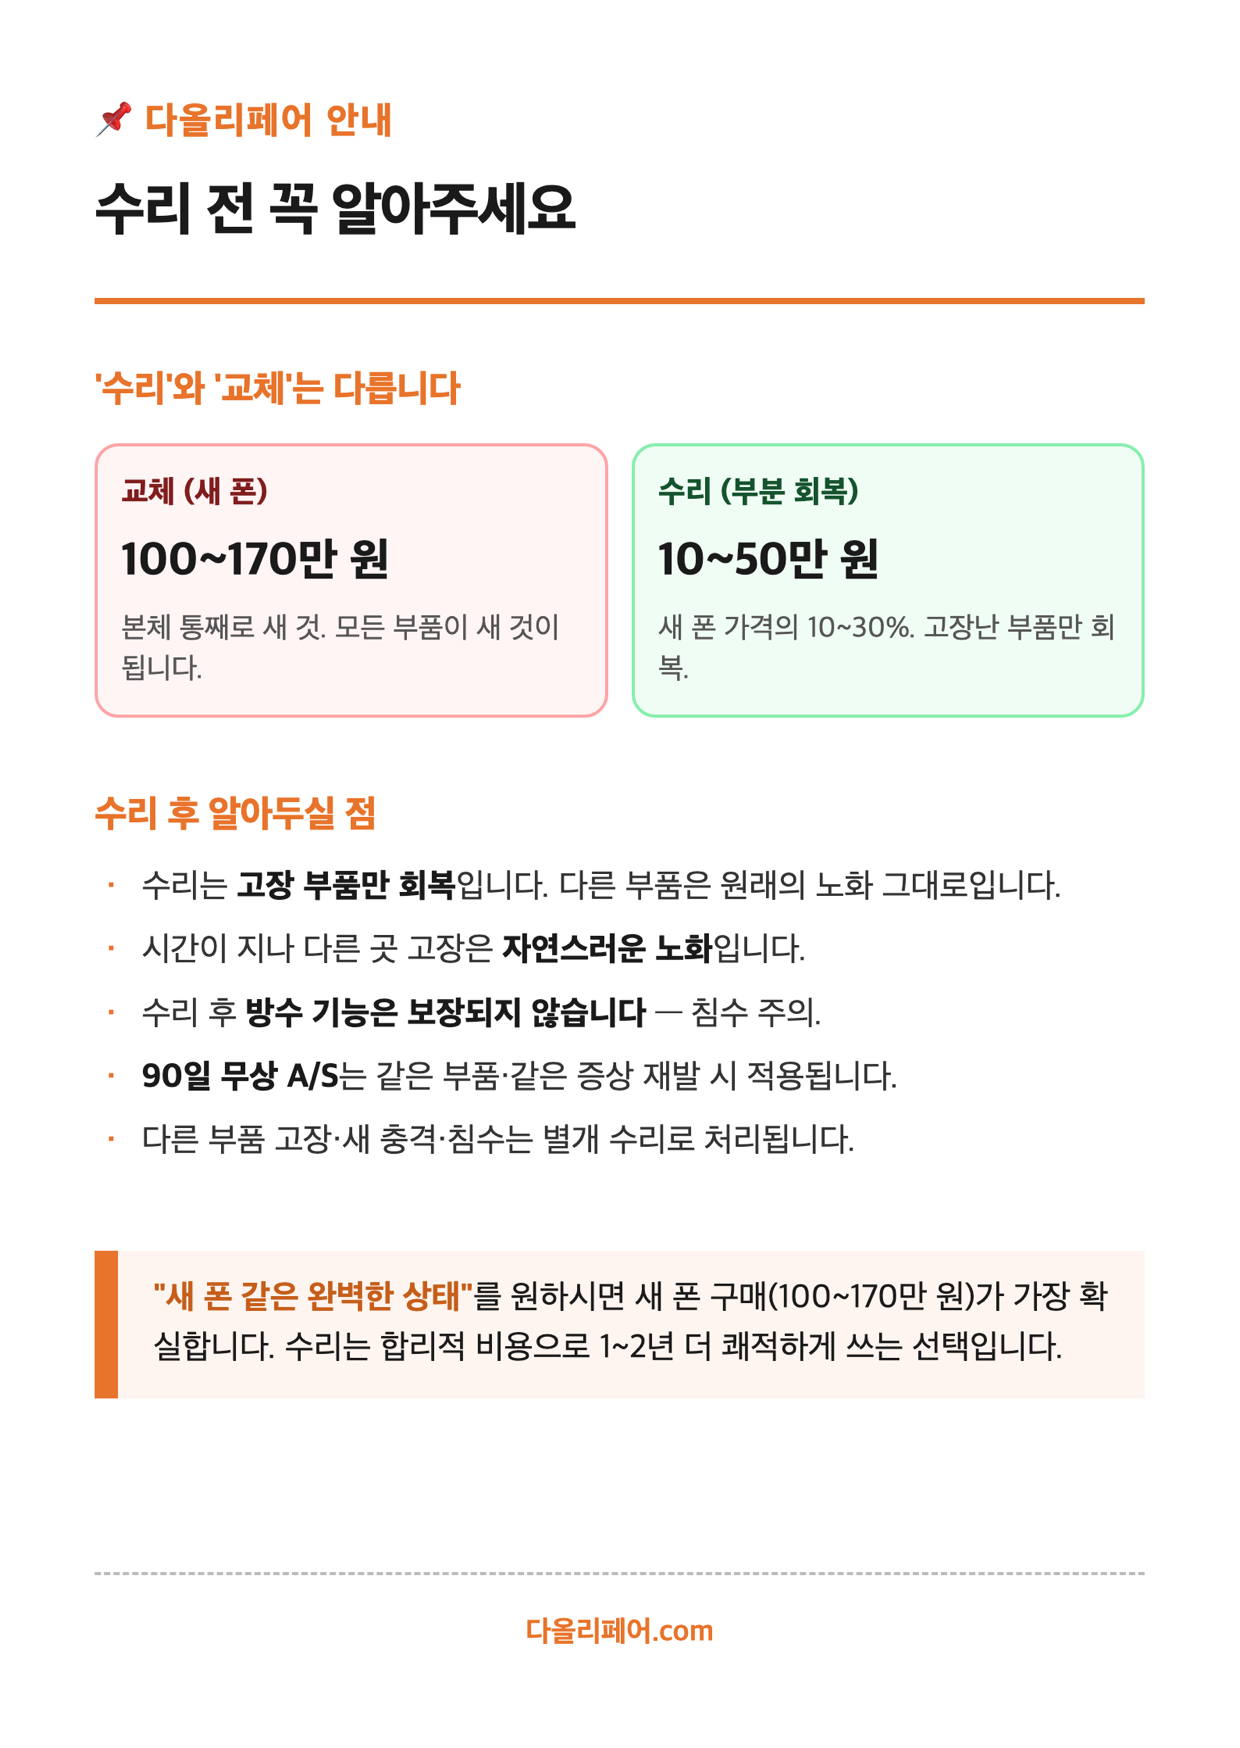
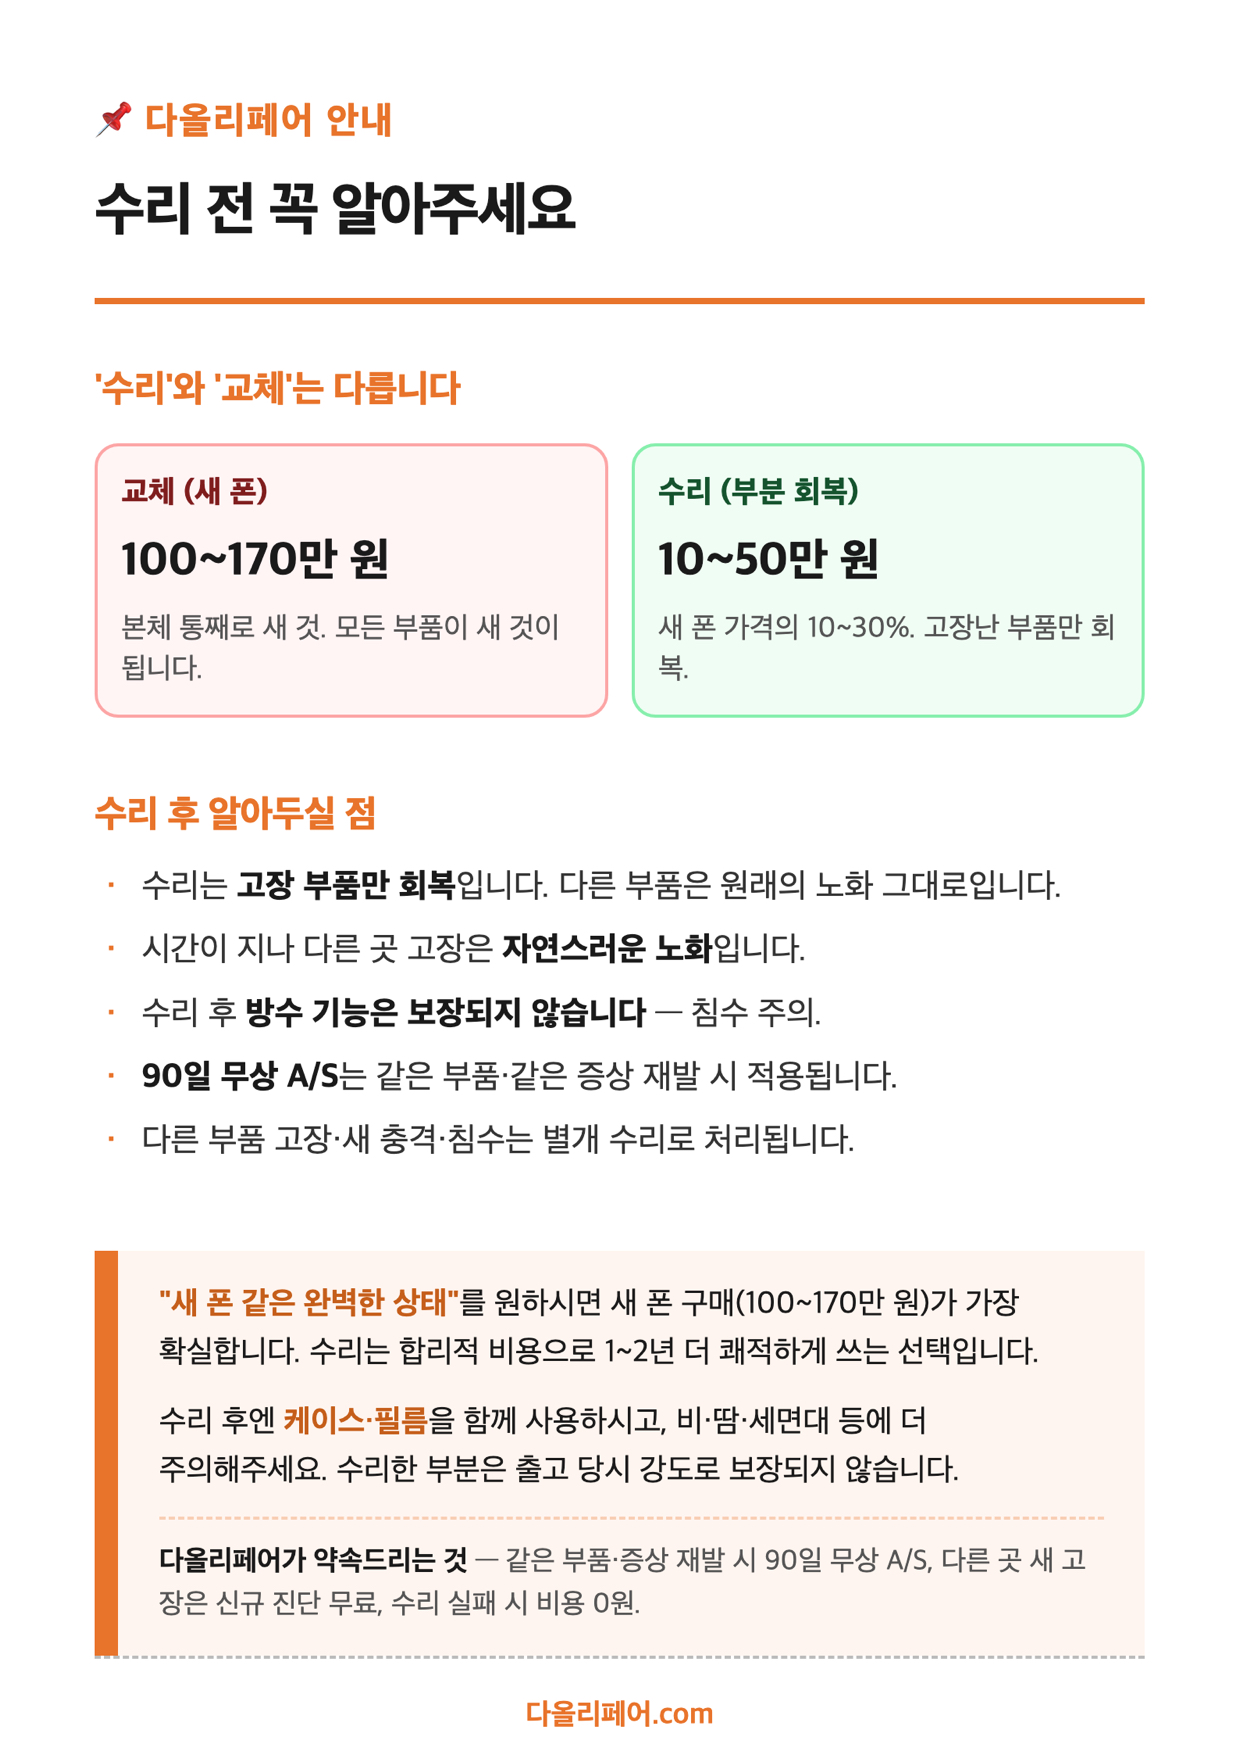
수리 vs 교체 A6 — 하단 박스 내용 보충 (수리 후 케이스/필름 안내 + 다올 약속 한 줄) — 점선까지 자연스럽게 채움

Changed region(s): [[0.0613, 0.7105, 0.8887, 0.9886]]

diff --git a/articles/notice-repair-vs-replacement-print.html b/articles/notice-repair-vs-replacement-print.html
@@ -158,12 +158,24 @@
     .a6-warn {
       background: #fff5f0;
       border-left: 2mm solid #E8732A;
-      padding: 2mm 3mm;
-      margin: 2mm 0;
-      font-size: 8pt;
+      padding: 2.5mm 3.5mm;
+      margin: 2mm 0 0;
+      font-size: 7.5pt;
+      line-height: 1.55;
+      display: flex;
+      flex-direction: column;
+      gap: 1.8mm;
+    }
+    .a6-warn p { margin: 0; word-break: keep-all; }
+    .a6-warn strong { color: #C55E1A; }
+    .a6-warn .a6-warn-promise {
+      font-size: 6.8pt;
+      color: #555;
+      padding-top: 1.8mm;
+      border-top: 1px dashed rgba(232,115,42,0.3);
       line-height: 1.5;
     }
-    .a6-warn strong { color: #C55E1A; }
+    .a6-warn .a6-warn-promise strong { color: #1a1a1a; }
     .a6-footer {
       margin-top: auto;
       padding-top: 3mm;
@@ -235,7 +247,11 @@
     </div>
 
     <div class="a6-warn">
-      <strong>"새 폰 같은 완벽한 상태"</strong>를 원하시면 새 폰 구매(100~170만 원)가 가장 확실합니다. 수리는 합리적 비용으로 1~2년 더 쾌적하게 쓰는 선택입니다.
+      <p><strong>"새 폰 같은 완벽한 상태"</strong>를 원하시면 새 폰 구매(100~170만 원)가 가장 확실합니다. 수리는 합리적 비용으로 1~2년 더 쾌적하게 쓰는 선택입니다.</p>
+      <p>수리 후엔 <strong>케이스·필름</strong>을 함께 사용하시고, 비·땀·세면대 등에 더 주의해주세요. 수리한 부분은 출고 당시 강도로 보장되지 않습니다.</p>
+      <div class="a6-warn-promise">
+        <strong>다올리페어가 약속드리는 것</strong> — 같은 부품·증상 재발 시 90일 무상 A/S, 다른 곳 새 고장은 신규 진단 무료, 수리 실패 시 비용 0원.
+      </div>
     </div>
 
     <div class="a6-footer">

diff --git a/dist/articles/notice-repair-vs-replacement-print.html b/dist/articles/notice-repair-vs-replacement-print.html
@@ -158,12 +158,24 @@
     .a6-warn {
       background: #fff5f0;
       border-left: 2mm solid #E8732A;
-      padding: 2mm 3mm;
-      margin: 2mm 0;
-      font-size: 8pt;
+      padding: 2.5mm 3.5mm;
+      margin: 2mm 0 0;
+      font-size: 7.5pt;
+      line-height: 1.55;
+      display: flex;
+      flex-direction: column;
+      gap: 1.8mm;
+    }
+    .a6-warn p { margin: 0; word-break: keep-all; }
+    .a6-warn strong { color: #C55E1A; }
+    .a6-warn .a6-warn-promise {
+      font-size: 6.8pt;
+      color: #555;
+      padding-top: 1.8mm;
+      border-top: 1px dashed rgba(232,115,42,0.3);
       line-height: 1.5;
     }
-    .a6-warn strong { color: #C55E1A; }
+    .a6-warn .a6-warn-promise strong { color: #1a1a1a; }
     .a6-footer {
       margin-top: auto;
       padding-top: 3mm;
@@ -235,7 +247,11 @@
     </div>
 
     <div class="a6-warn">
-      <strong>"새 폰 같은 완벽한 상태"</strong>를 원하시면 새 폰 구매(100~170만 원)가 가장 확실합니다. 수리는 합리적 비용으로 1~2년 더 쾌적하게 쓰는 선택입니다.
+      <p><strong>"새 폰 같은 완벽한 상태"</strong>를 원하시면 새 폰 구매(100~170만 원)가 가장 확실합니다. 수리는 합리적 비용으로 1~2년 더 쾌적하게 쓰는 선택입니다.</p>
+      <p>수리 후엔 <strong>케이스·필름</strong>을 함께 사용하시고, 비·땀·세면대 등에 더 주의해주세요. 수리한 부분은 출고 당시 강도로 보장되지 않습니다.</p>
+      <div class="a6-warn-promise">
+        <strong>다올리페어가 약속드리는 것</strong> — 같은 부품·증상 재발 시 90일 무상 A/S, 다른 곳 새 고장은 신규 진단 무료, 수리 실패 시 비용 0원.
+      </div>
     </div>
 
     <div class="a6-footer">
